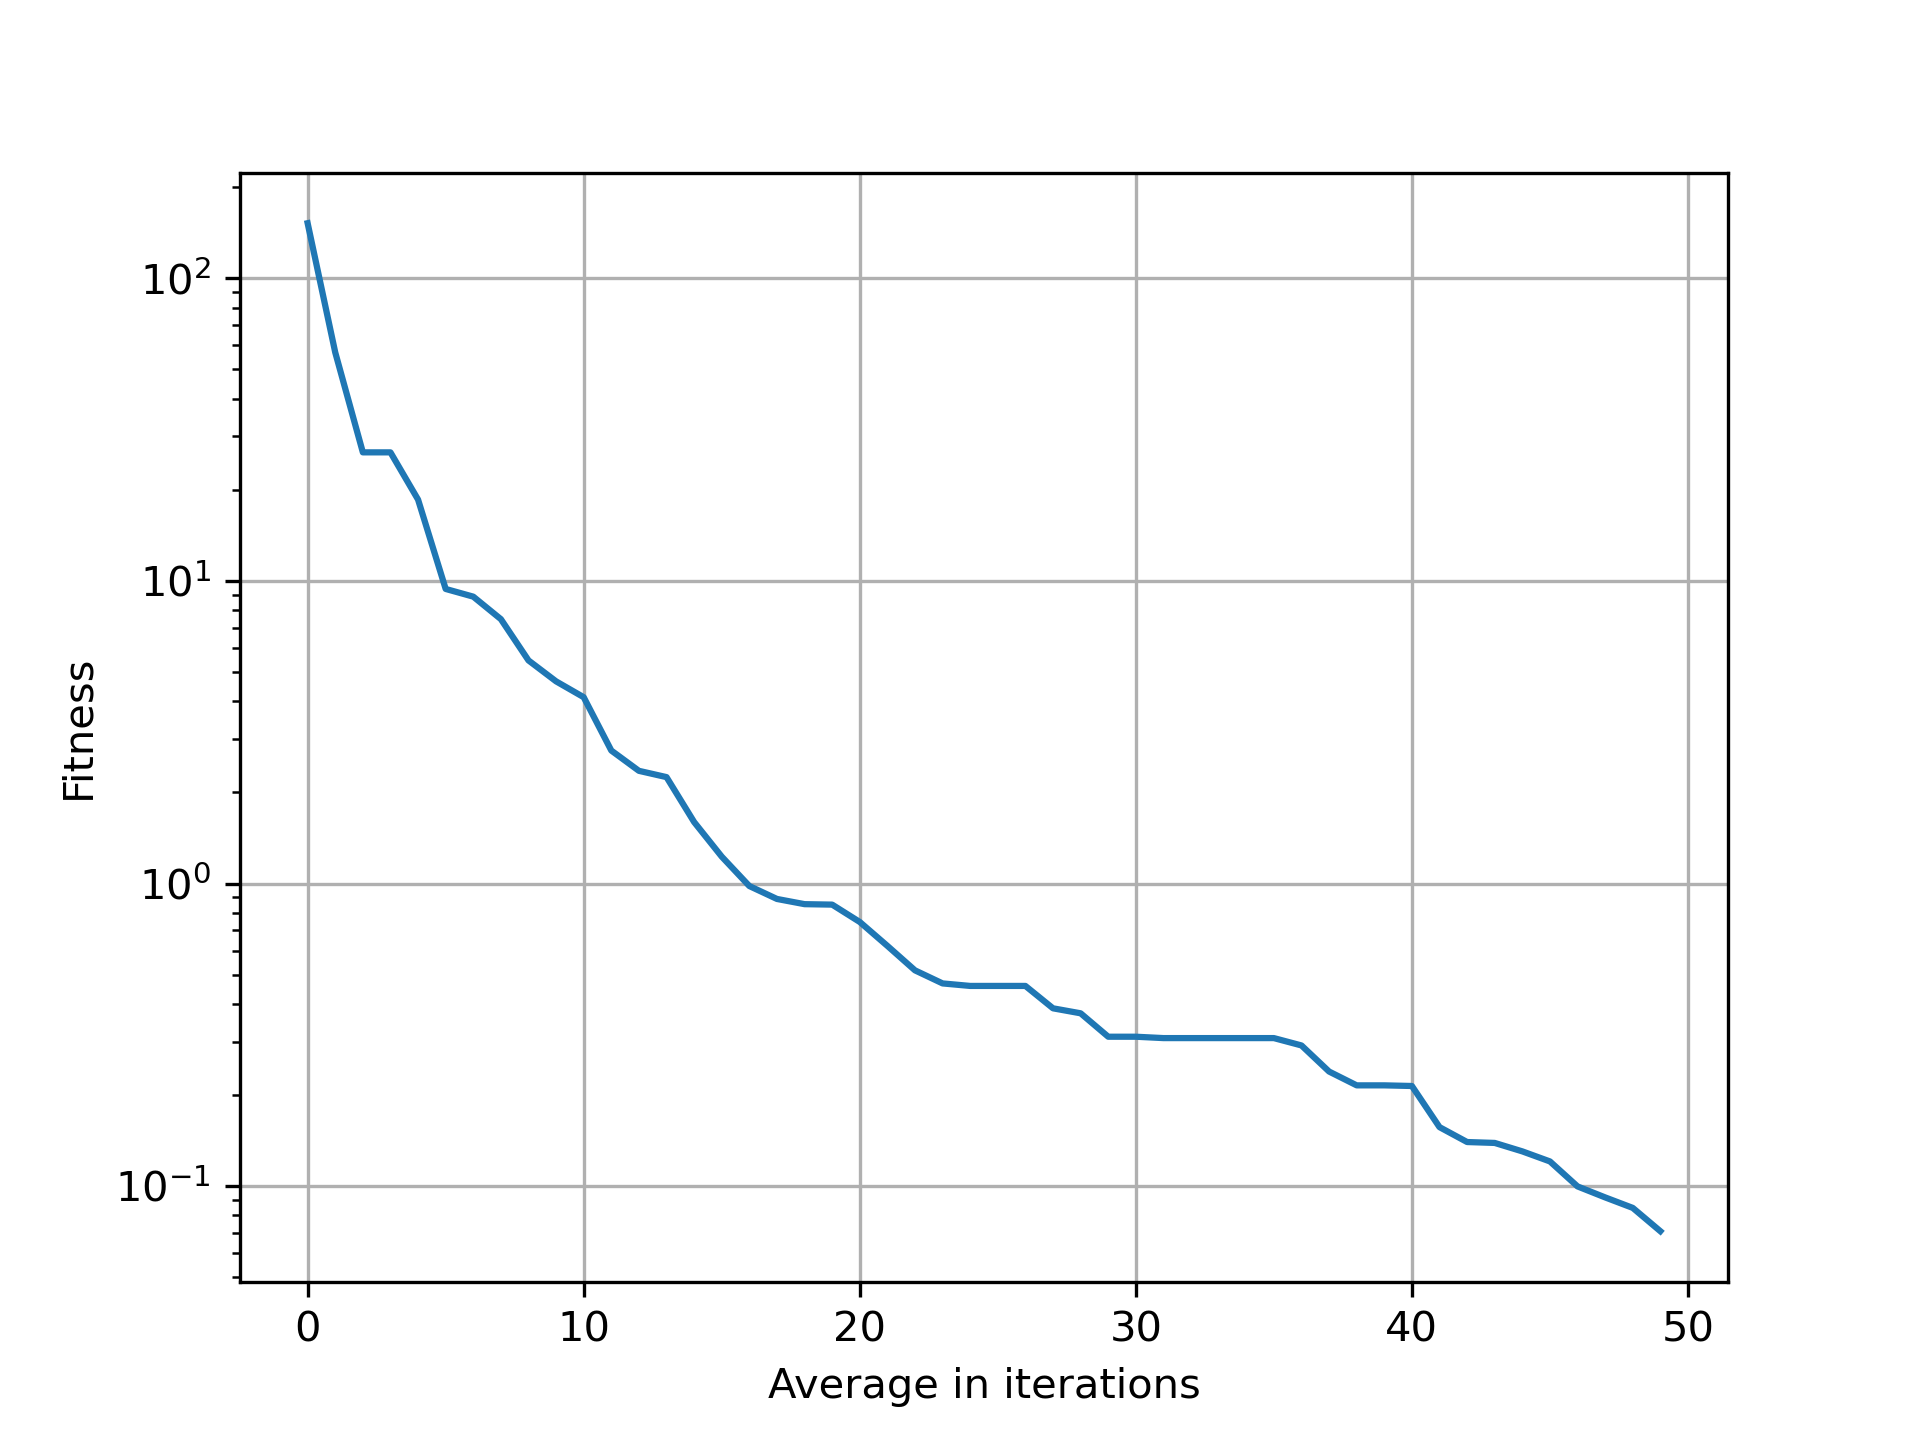
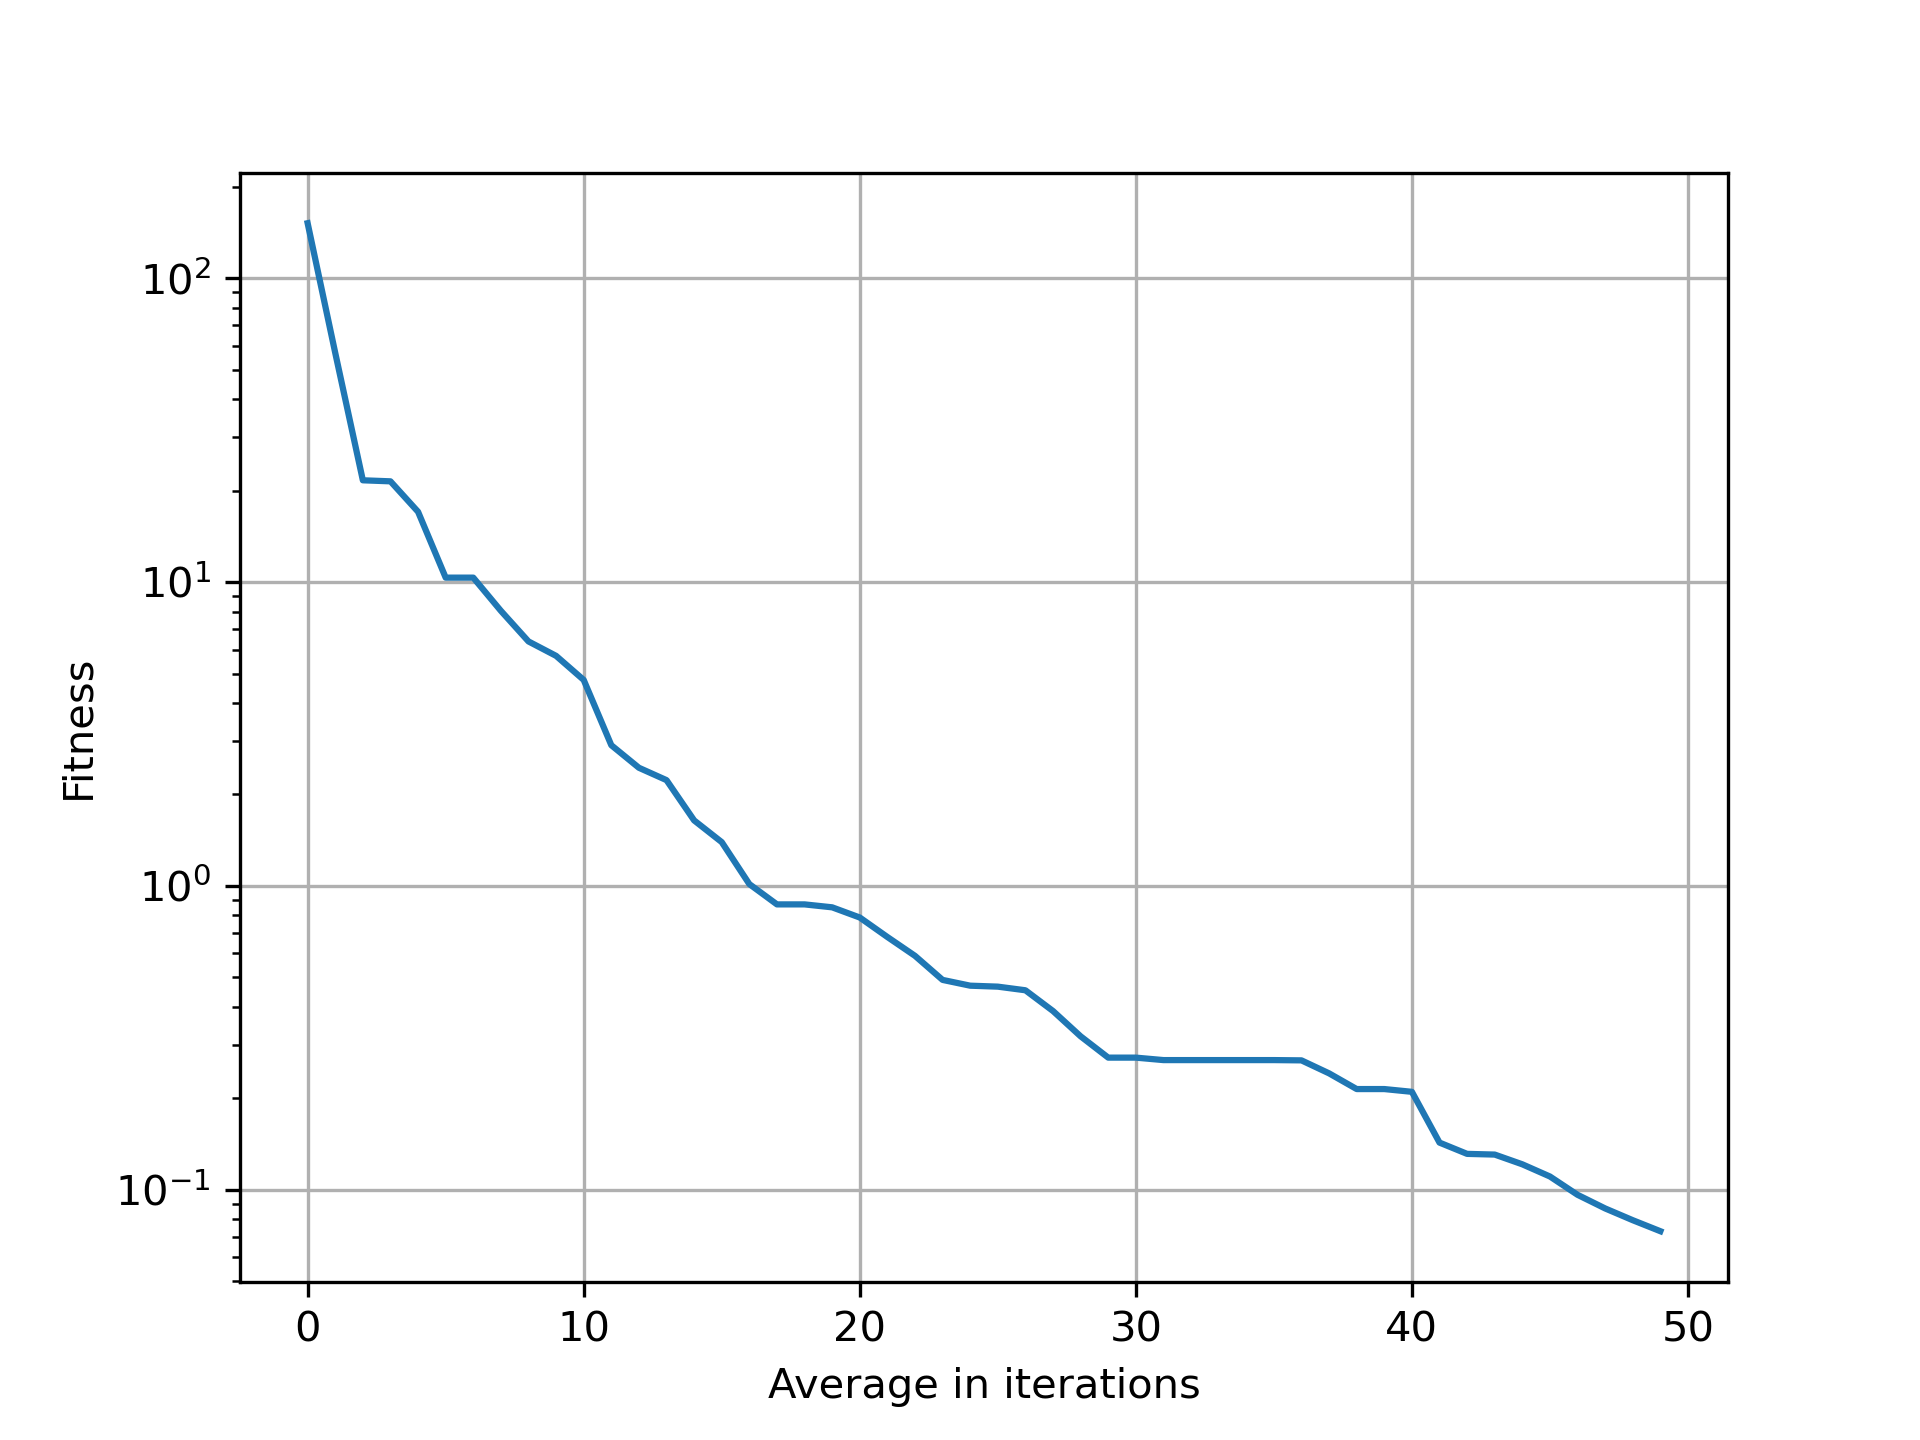
commit

diff --git a/papergraphics.py b/papergraphics.py
@@ -7,12 +7,12 @@ import matplotlib.pyplot as plt
 
 wao_function_schaffer = np.load("schafferWAO.npy")
 wao_function_bukin = np.load("bukinWAO.npy")
-wao_function_levi = np.load("leviWAO.npy")
+wao_function_hump = np.load("humpWAO.npy")
 wao_function_matyas = np.load("matyasWAO.npy")
 
 wao_watts_strogatz_graph_function_schaffer = np.load("schafferNetwork.npy")
 wao_watts_strogatz_graph_function_bukin = np.load("bukinNetwork.npy")
-wao_watts_strogatz_graph_function_levi = np.load("leviNetwork.npy")
+wao_watts_strogatz_graph_function_hump = np.load("humpNetwork.npy")
 wao_watts_strogatz_graph_function_matyas = np.load("matyasNetwork.npy")
 """
 plt.figure(dpi=300)
@@ -50,8 +50,8 @@ plt.plot(wao_function_bukin,'g-',label="Bukin WAO")
 plt.plot(wao_watts_strogatz_graph_function_bukin,'g--',label="Bukin small-world graph")
 plt.plot(wao_function_schaffer,'b-',label="Schaffer WAO",)
 plt.plot(wao_watts_strogatz_graph_function_schaffer,'b--',label="Schaffer small-world graph")
-plt.plot(wao_function_levi,'r-',label="Levi WAO")
-plt.plot(wao_watts_strogatz_graph_function_levi,'r--',label="Levi small-world graph")
+plt.plot(wao_function_hump,'r-',label="Hump WAO")
+plt.plot(wao_watts_strogatz_graph_function_hump,'r--',label="Hump small-world graph")
 plt.plot(wao_function_matyas,'c-',label="Matyas WAO",)
 plt.plot(wao_watts_strogatz_graph_function_matyas,'c--',label="Matyas small-world graph")
 plt.yscale("log")

diff --git a/testWoa.py b/testWoa.py
@@ -55,8 +55,8 @@ rewiring = 0.35
 experiments_wao(f.function_bukin,"bukinWAO",max_iter,number_experiments,num_whales, dim)
 experiments_network(f.function_bukin,"bukinNetwork",max_iter,number_experiments,num_whales, dim,rewiring)
 
-experiments_wao(f.function_levi,"leviWAO",max_iter,number_experiments,num_whales, dim)
-experiments_network(f.function_levi,"leviNetwork",max_iter,number_experiments,num_whales, dim,rewiring)
+experiments_wao(f.function_three_hump,"humpWAO",max_iter,number_experiments,num_whales, dim)
+experiments_network(f.function_three_hump,"humpNetwork",max_iter,number_experiments,num_whales, dim,rewiring)
 
 experiments_wao(f.function_matyas,"matyasWAO",max_iter,number_experiments,num_whales,dim)
 experiments_network(f.function_matyas,"matyasNetwork",max_iter,number_experiments,num_whales, dim,rewiring)

diff --git a/functions.py b/functions.py
@@ -32,15 +32,12 @@ def function_matyas(position):
     else:
         return float("inf")
 
-#Lévi function N.13
-def function_levi(position):
+#Three-hump camel function function
+def function_three_hump(position):
     x = position[0]
     y = position[1]
-    a = math.pow(math.sin(3*math.pi*x),2)
-    b = math.pow(x-1,2)*(1+math.pow(math.sin(3*math.pi*y),2))
-    c = math.pow(y-1,2)*(1+math.pow(math.sin(2*math.pi*y),2))
-    if x>=-10 and y <= 10:
-        return a+b+c
+    if x>=-5 and y<=5:
+        return 2*x**2-1.05*x**4+(x**6)/6+x*y+y**2
     else:
         return float("inf")
 
